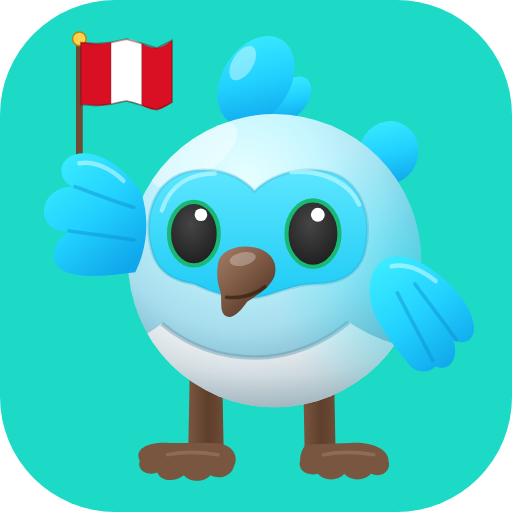
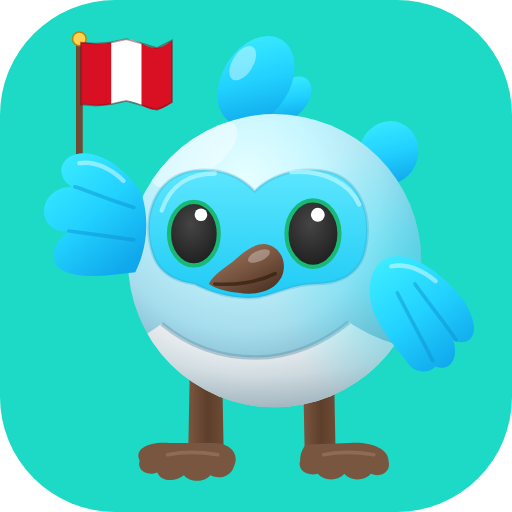
fix: Dash beak points forward instead of drooping down
The beak was a tall drop shape whose tip hung well below its base, so it
read as pointing down. Redraw it as a short beak pointing forward and to
the left, like the official 3D render, and move the mouth line and
highlight to match.

Applied to src/lib/art.ts, every SVG in brand/assets/dash, the favicon and
the social preview images (PNGs regenerated with npm run social).

Changed region(s): [[0.4062, 0.4688, 0.5625, 0.625]]

diff --git a/src/lib/art.ts b/src/lib/art.ts
@@ -55,9 +55,9 @@ export function dash(o: DashOptions = {}): string {
   <path d="M86,122 C92,104 106,97 122,97 M174,96 C196,94 214,104 220,118" stroke="#B5F6FF" stroke-opacity=".75" stroke-width="3" fill="none" stroke-linecap="round"/>
   <g class="d-eye"><ellipse cx="107.8" cy="137.8" rx="16.9" ry="21.6" fill="url(#dg-eye)" stroke="#19B874" stroke-width="2.8"/><circle cx="112.6" cy="125" r="4.3" fill="#fff"/></g>
   <g class="d-eye"><ellipse cx="188.7" cy="137.8" rx="18" ry="22.6" fill="url(#dg-eye)" stroke="#19B874" stroke-width="2.8"/><circle cx="192" cy="125" r="4.7" fill="#fff"/></g>
-  <path class="ol" d="M124,160 C124,150 136,145 148,147 C160,149 166,158 162,168 C158,176 150,180 144,184 C140,190 134,196 130,194 C125,192 127,184 126,178 C124,172 123,166 124,160Z" fill="url(#dg-beak)"/>
-  <path d="M130,181 C138,182 148,180 156,174" stroke="#33200F" stroke-opacity=".7" stroke-width="2.4" fill="none" stroke-linecap="round"/>
-  <ellipse cx="141" cy="155" rx="9" ry="4.5" fill="#fff" opacity=".28" transform="rotate(-12 141 155)"/>
+  <path class="ol" d="M157,145 C167,147 172,158 167,168 C162,177 150,180 138,178 C129,177 122,175 118,172 C120,167 127,162 134,157 C141,151 148,144 157,145Z" fill="url(#dg-beak)"/>
+  <path d="M122,172 C135,173 151,171 163,165" stroke="#33200F" stroke-opacity=".7" stroke-width="2.4" fill="none" stroke-linecap="round"/>
+  <ellipse cx="152" cy="153" rx="8" ry="3.6" fill="#fff" opacity=".3" transform="rotate(-24 152 153)"/>
   <g class="d-wl">
     ${o.flag === false ? '' : FLAG}
     <path class="ol" d="M72,110 C60,92 42,80 27,84 C15,88 15,100 25,106 C11,106 3,118 7,128 C10,135 17,137 23,136 C11,144 9,158 19,163 C31,169 51,166 68,164 C76,148 78,128 72,110Z" fill="url(#dg-wing)"/>
